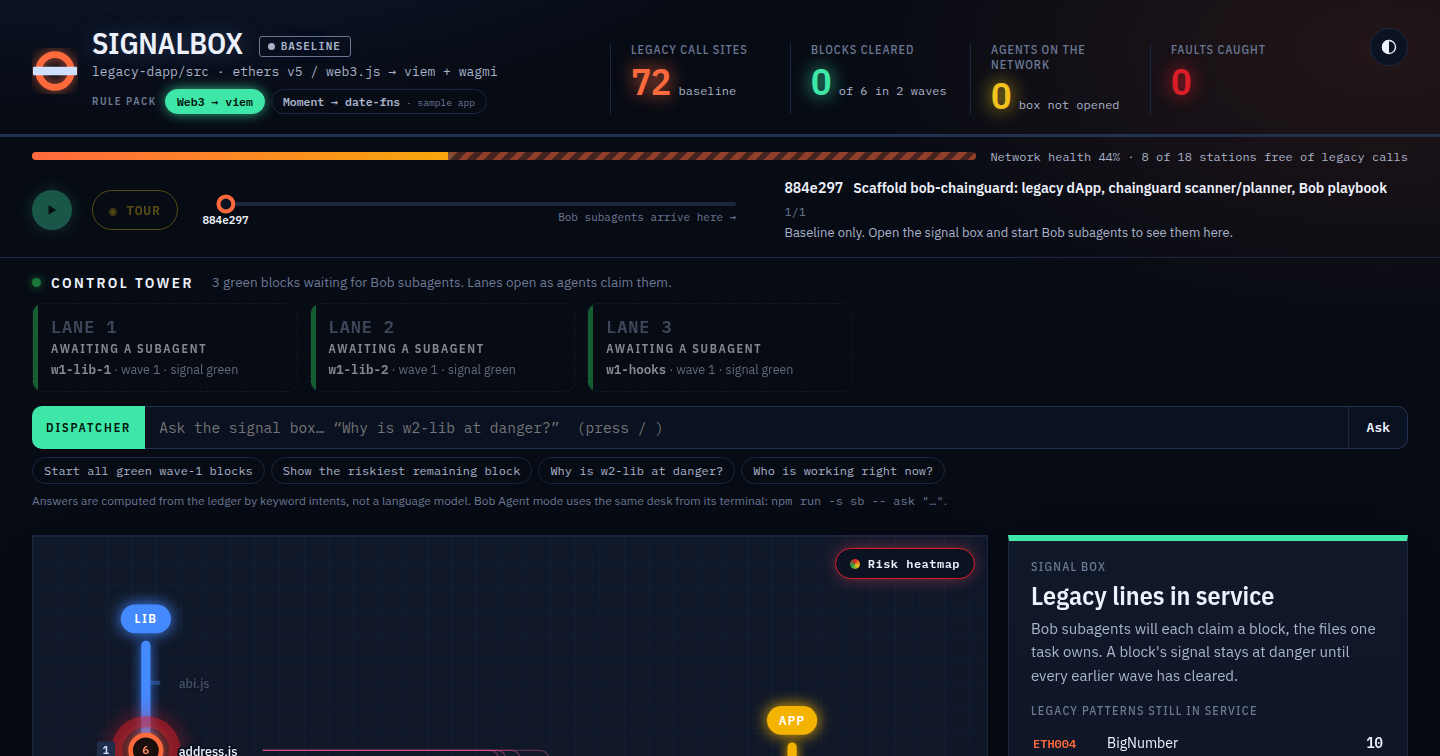
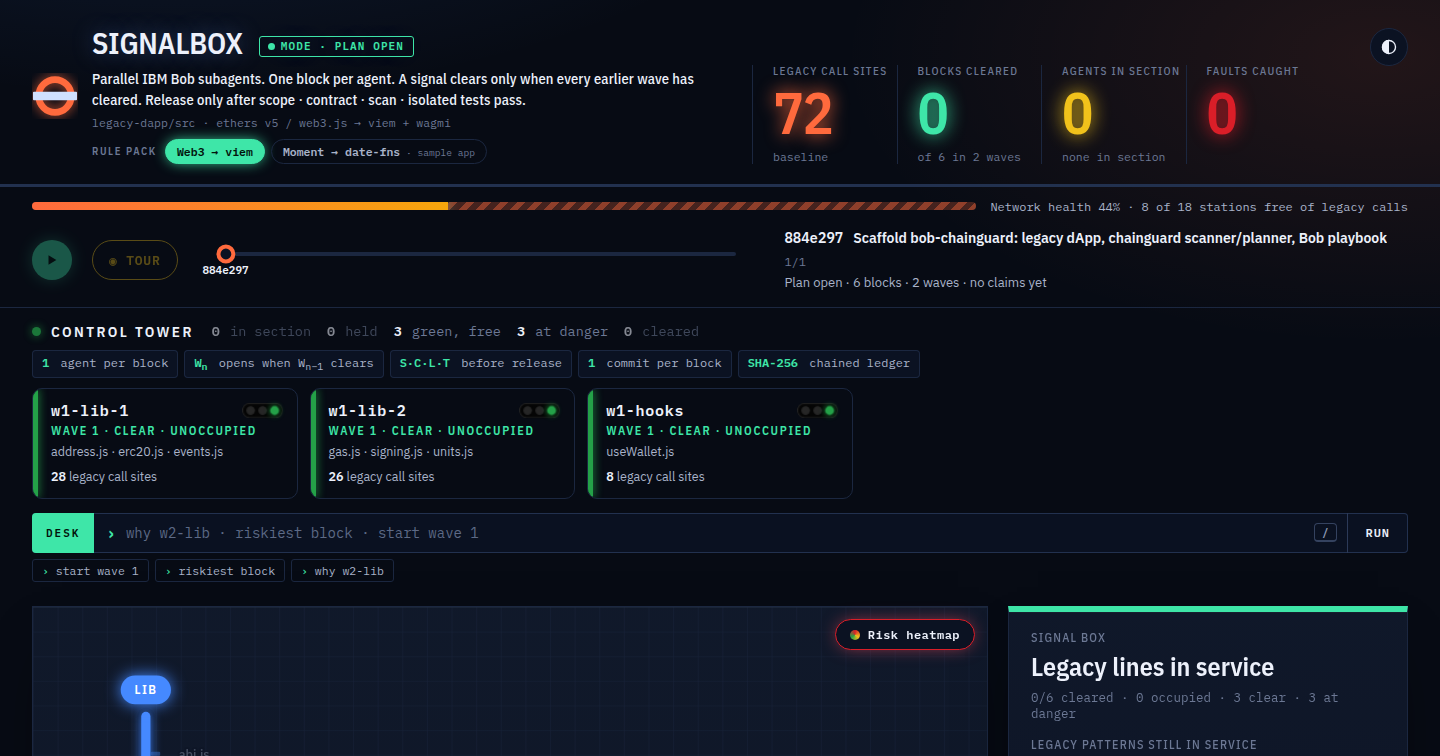
First-impression pass on the panel
- Masthead: one hard sentence stating the interlocking; mode reads
  'Mode · Plan open / Live / Replay'; stat numbers are the loudest thing
- Control tower: terse counts, a one-line rules strip, and empty tracks
  shown as real free sections (files, call sites) instead of placeholders
- Desk: an operator console (prompt, / key, Run) with three sharp
  commands; the disclaimer moved to a tooltip
- Side panel and signal box: prose replaced by state counts and a key
- Train graph: every block row always drawn, a parallelism band with
  xN counts and the peak, taller rows and a tight legend
- Footer: 'Ledger is append-only and SHA-256 chained. Every clear is a
  real commit. Nothing is mocked.'

Claude-Session: https://claude.ai/code/session_01BpaNfmVPrYku2iviHeT8ef

diff --git a/atlas/src/main.js b/atlas/src/main.js
@@ -265,7 +265,7 @@ function buildStats() {
   $('#stats').replaceChildren(
     cell('calls', 'Legacy call sites'),
     cell('blocks', 'Blocks cleared'),
-    cell('agents', 'Agents on the network'),
+    cell('agents', 'Agents in section'),
     cell('faults', 'Faults caught'),
   )
 }
@@ -279,7 +279,7 @@ function updateStats() {
   tween('blocks', $('#stat-blocks'), sum.cleared)
   $('#stat-blocks-sub').textContent = `of ${sum.total} in ${view.sb.waves} waves`
   tween('agents', $('#stat-agents'), sum.agents.length)
-  $('#stat-agents-sub').textContent = sum.agents.join(' · ') || (view.opened ? 'none' : 'box not opened')
+  $('#stat-agents-sub').textContent = sum.agents.join(' · ') || 'none in section'
   tween('faults', $('#stat-faults'), view.faults)
   $('#stat-faults-sub').textContent = view.faults ? 'stopped before commit' : ''
   document.body.dataset.done = String(calls === 0)
@@ -291,7 +291,7 @@ function updateStats() {
   $('#health').setAttribute('aria-valuenow', String(pct))
   const badge = $('#mode')
   badge.dataset.mode = model.mode
-  badge.textContent = model.mode === 'live' ? (view.atHead ? 'Live' : 'Live · paused') : model.mode === 'replay' ? 'Replay' : 'Baseline'
+  badge.textContent = `Mode · ${model.mode === 'live' ? (view.atHead ? 'Live' : 'Live · paused') : model.mode === 'replay' ? 'Replay' : 'Plan open'}`
 }
 
 // ------------------------------------------------------------------ signal box panel (board)
@@ -339,7 +339,7 @@ function updateBoard() {
 function updateDescriber() {
   const list = $('#describer')
   if (!view.opened) {
-    list.replaceChildren(h('li', { class: 'td-empty' }, 'The signal box has not been opened yet. Run ', h('code', {}, 'npm run sb -- init'), ', then give each Bob subagent its block prompt.'))
+    list.replaceChildren(h('li', { class: 'td-empty' }, 'No events. ', h('code', {}, 'sb init'), ' opens the box; every claim, fault and clear lands here.'))
     return
   }
   const upto = view.stops[view.i].event
@@ -382,9 +382,10 @@ function updateTower() {
   const sum = summary(view.sb)
   const green = Object.values(view.sb.tasks).filter((t) => t.state === 'clear')
   const held = lanes.filter((l) => l.status === 'held').length
-  $('#tower-sub').textContent = lanes.length
-    ? `${sum.agents.length} Bob subagent${sum.agents.length === 1 ? '' : 's'} in section · ${held} held at a signal · ${green.length} green block${green.length === 1 ? '' : 's'} waiting`
-    : `${green.length} green block${green.length === 1 ? '' : 's'} waiting for Bob subagents. Lanes open as agents claim them.`
+  const busy = lanes.filter((l) => l.task).length
+  $('#tower-sub').replaceChildren(...[
+    ['in section', busy], ['held', held], ['green, free', green.length], ['at danger', sum.danger], ['cleared', sum.cleared],
+  ].map(([k, v]) => h('span', { class: `tc${v ? '' : ' zero'}` }, h('b', {}, String(v)), ` ${k}`)))
   const cards = lanes.map((l) => {
     const t = l.task && view.sb.tasks[l.task]
     return h('li', { class: `lane l-${l.status}${l.fresh ? ' fresh' : ''}`, style: `--c:${agentColor(l.agent)}`, tabindex: 0,
@@ -401,10 +402,18 @@ function updateTower() {
       l.heldFor ? h('p', { class: 'lane-held' }, h('b', {}, `Refused ${l.heldFor}: `), l.reason.replace(/^signal at danger: /, '')) : h('p', { class: 'lane-last' }, h('time', {}, l.last.at.slice(11, 19)), ' ', describe(l.last)),
       h('p', { class: 'lane-stats' }, h('b', {}, String(l.clears)), ' cleared · ', h('b', { class: l.faults ? 'f' : '' }, String(l.faults)), ' faults · ', h('b', { class: l.denies ? 'd' : '' }, String(l.denies)), ' refused'))
   })
-  const ghosts = lanes.length ? [] : green.slice(0, 4).map((t, k) => h('li', { class: 'lane l-ghost' },
-    h('div', { class: 'lane-top' }, h('span', { class: 'lane-name' }, `LANE ${k + 1}`)),
-    h('p', { class: 'lane-status' }, 'Awaiting a subagent'),
-    h('p', { class: 'lane-block' }, h('b', {}, t.id), ` · wave ${t.wave} · signal green`)))
+  // No agent yet: the tracks are still real. Each green block is a free section with its files
+  // and call count; the rules strip states the interlocking in one line.
+  const ghosts = lanes.length ? [] : green.map((t) => h('li', { class: 'lane l-ghost', tabindex: 0,
+    onclick: () => select(taskFiles(t.id)[0]),
+    onmouseenter: () => { model.focusTask = t.id; updateMap() },
+    onmouseleave: () => { model.focusTask = null; updateMap() },
+  },
+    h('div', { class: 'lane-top' }, h('span', { class: 'lane-name' }, t.id), h('span', { class: 'signal-head s-clear' }, h('i', { class: 'lamp red' }), h('i', { class: 'lamp amber' }), h('i', { class: 'lamp green' }))),
+    h('p', { class: 'lane-status' }, `Wave ${t.wave} · clear · unoccupied`),
+    h('p', { class: 'lane-block' }, taskFiles(t.id).map((f) => f.split('/').pop()).join(' · ')),
+    h('p', { class: 'lane-stats' }, h('b', {}, String(t.findings || 0)), ' legacy call sites')))
+  $('#tower-rules').hidden = lanes.length > 0
   $('#lanes').replaceChildren(...cards, ...ghosts)
   document.body.classList.toggle('held-now', view.event?.t === 'deny')
 }
@@ -487,15 +496,18 @@ function askDesk(question) {
   }
 }
 
+const DESK_CHIPS = ['start wave 1', 'riskiest block', 'why w2-lib']
+
 function buildDesk() {
   $('#ask').replaceChildren(
     h('form', { class: 'ask-form', onsubmit: (e) => { e.preventDefault(); askDesk() } },
-      h('label', { for: 'ask-input', class: 'ask-label' }, 'Dispatcher'),
-      h('input', { id: 'ask-input', type: 'text', autocomplete: 'off', placeholder: 'Ask the signal box… “Why is w2-lib at danger?”  (press / )' }),
-      h('button', { type: 'submit', class: 'ask-go' }, 'Ask')),
-    h('div', { class: 'ask-examples' }, EXAMPLES.slice(0, 4).map((x) => h('button', { type: 'button', class: 'ask-chip', onclick: () => askDesk(x) }, x))),
-    h('div', { class: 'ask-answer', id: 'ask-answer', hidden: true, 'aria-live': 'polite' }),
-    h('p', { class: 'ask-note' }, 'Answers are computed from the ledger by keyword intents, not a language model. Bob Agent mode uses the same desk from its terminal: ', h('code', {}, 'npm run -s sb -- ask "…"'), '.'))
+      h('label', { for: 'ask-input', class: 'ask-label', title: 'Deterministic: keyword intents over the ledger, no language model. Bob uses the same desk: sb ask "…" or the signalbox_ask MCP tool.' }, 'Desk'),
+      h('span', { class: 'ask-prompt', 'aria-hidden': 'true' }, '›'),
+      h('input', { id: 'ask-input', type: 'text', autocomplete: 'off', spellcheck: 'false', placeholder: 'why w2-lib · riskiest block · start wave 1' }),
+      h('kbd', { class: 'ask-kbd', title: 'Press / to focus' }, '/'),
+      h('button', { type: 'submit', class: 'ask-go' }, 'Run')),
+    h('div', { class: 'ask-examples' }, DESK_CHIPS.map((x) => h('button', { type: 'button', class: 'ask-chip', onclick: () => askDesk(x) }, x))),
+    h('div', { class: 'ask-answer', id: 'ask-answer', hidden: true, 'aria-live': 'polite' }))
 }
 
 // ------------------------------------------------------------------ train graph
@@ -505,8 +517,34 @@ const AGENT_COLORS = ['#ffb000', '#33b1ff', '#ff7eb6', '#42be65', '#08bdba', '#d
 function updateGraph() {
   const el = $('#graph')
   const full = timeline(model.events)
+  const W = Math.max(640, el.clientWidth || 900)
+  const left = 160
+  const right = 24
+  const rowH = 38
+  const band = 34 // parallelism band
+  const tasks = [...(full ? full.tasks : Object.values(view.sb.tasks).map((t) => ({ id: t.id, wave: t.wave })))].sort((a, b) => a.wave - b.wave || a.id.localeCompare(b.id))
+  const top = band + 22
+  const H = top + tasks.length * rowH + 30
+  const rowY = Object.fromEntries(tasks.map((t, i) => [t.id, top + i * rowH]))
+  const g = s('svg', { viewBox: `0 0 ${W} ${H}`, width: W, height: H, class: 'graph', role: 'img' })
+  const rows = () => {
+    let lastWave = null
+    for (const t of tasks) {
+      const y = rowY[t.id]
+      g.append(s('rect', { x: left, y: y + 3, width: W - left - right, height: rowH - 6, rx: 3, class: 'g-lane' }))
+      if (t.wave !== lastWave) {
+        g.append(s('line', { x1: 8, x2: W - right, y1: y - 1, y2: y - 1, class: 'g-wave' }))
+        lastWave = t.wave
+      }
+      g.append(s('text', { x: 12, y: y + rowH / 2 + 4, class: 'g-row' }, s('tspan', { class: 'g-w' }, `W${t.wave} `), t.id))
+    }
+    g.append(s('text', { x: 12, y: band / 2 + 8, class: 'g-row g-par-label' }, 'PARALLEL'))
+  }
   if (!full) {
-    el.replaceChildren(h('p', { class: 'graph-empty' }, 'Bars appear here as Bob subagents claim blocks.'))
+    rows()
+    g.setAttribute('aria-label', 'Train graph: no block has been occupied yet')
+    g.append(s('text', { x: left + 12, y: band / 2 + 8, class: 'g-axis' }, 'no occupations yet · bars start at the first claim'))
+    el.replaceChildren(g)
     return
   }
   const upto = view.stops[view.i].event
@@ -514,52 +552,50 @@ function updateGraph() {
   const now = Date.parse(model.events[upto].at)
   const agents = [...new Set(full.runs.map((r) => r.agent))]
   const color = agentColor
-  const tasks = [...full.tasks].sort((a, b) => a.wave - b.wave || a.id.localeCompare(b.id))
-  const W = Math.max(640, el.clientWidth || 900)
-  const left = 150
-  const right = 24
-  const rowH = 30
-  const top = 26
-  const H = top + tasks.length * rowH + 30
   const span = Math.max(1, full.t1 - full.t0)
   const x = (t) => left + ((t - full.t0) / span) * (W - left - right)
-  const rowY = Object.fromEntries(tasks.map((t, i) => [t.id, top + i * rowH]))
-
-  const g = s('svg', { viewBox: `0 0 ${W} ${H}`, width: W, height: H, class: 'graph', role: 'img', 'aria-label': `Train graph: ${tl.runs.length} block occupations by ${agents.length} agents` })
-  // time axis: minute marks
+  g.setAttribute('aria-label', `Train graph: ${tl.runs.length} block occupations by ${agents.length} agents`)
+  rows()
   const stepMs = [10e3, 30e3, 60e3, 120e3, 300e3, 600e3, 900e3, 1800e3, 3600e3].find((m) => span / m <= 8) || 7200e3
   for (let t = 0; t <= span; t += stepMs) {
     const xx = x(full.t0 + t)
-    g.append(s('line', { x1: xx, x2: xx, y1: top - 6, y2: H - 24, class: 'g-grid' }),
+    g.append(s('line', { x1: xx, x2: xx, y1: band + 4, y2: H - 24, class: 'g-grid' }),
       s('text', { x: xx, y: H - 8, class: 'g-axis', 'text-anchor': 'middle' }, t >= 60e3 ? `+${Math.round(t / 60e3)}m` : `+${Math.round(t / 1e3)}s`))
   }
-  let lastWave = null
-  for (const t of tasks) {
-    const y = rowY[t.id]
-    if (t.wave !== lastWave) {
-      g.append(s('line', { x1: 8, x2: W - right, y1: y - 3, y2: y - 3, class: 'g-wave' }))
-      lastWave = t.wave
-    }
-    g.append(s('text', { x: 12, y: y + rowH / 2 + 1, class: 'g-row' }, `W${t.wave}  ${t.id}`))
+  // Parallelism band: how many agents occupy blocks at each moment. Height and colour = count.
+  const edges = tl.runs.flatMap((r) => [[r.start, 1], [r.end ?? now, -1]]).sort((a, b) => a[0] - b[0] || a[1] - b[1])
+  let cur = 0
+  let peak = 0
+  for (let k = 0; k < edges.length; k++) {
+    cur += edges[k][1]
+    const next = edges[k + 1]?.[0]
+    if (next == null || cur <= 0 || next <= edges[k][0]) continue
+    peak = Math.max(peak, cur)
+    const hh = Math.min(band - 6, 6 + (cur - 1) * 8)
+    const x0 = x(edges[k][0])
+    const w = Math.max(1, x(next) - x0)
+    g.append(s('rect', { x: x0, y: band - hh, width: w, height: hh, class: `g-par p${Math.min(cur, 4)}` }, s('title', {}, `${cur} agent${cur > 1 ? 's' : ''} in parallel`)))
+    if (cur > 1 && w > 26) g.append(s('text', { x: x0 + w / 2, y: band - hh - 4, class: 'g-par-n', 'text-anchor': 'middle' }, `×${cur}`))
   }
+  if (peak > 1) g.append(s('text', { x: W - right, y: 12, class: 'g-peak', 'text-anchor': 'end' }, `peak ×${peak}`))
   for (const r of tl.runs) {
-    const y = rowY[r.task] + 7
+    const y = rowY[r.task] + 8
     const end = r.end ?? now
-    const bar = s('g', { class: `g-run o-${r.outcome}` },
-      s('rect', { x: x(r.start), y, width: Math.max(3, x(end) - x(r.start)), height: rowH - 14, rx: 3, fill: color(r.agent), style: `color:${color(r.agent)}` }),
-      x(end) - x(r.start) > 44 ? s('text', { x: x(r.start) + 6, y: y + 12, class: 'g-agent' }, r.agent.toUpperCase()) : null,
-      r.verifies.map((v) => s('rect', { x: x(v.at) - 2, y: y - 4, width: 4, height: rowH - 6, rx: 1, class: v.ok ? 'g-ok' : 'g-fault' }, s('title', {}, v.ok ? 'track circuit clear' : `fault: ${v.failed.join(', ')}`))),
-      r.outcome === 'cleared' ? s('circle', { cx: x(end), cy: y + (rowH - 14) / 2, r: 5, class: 'g-clear' }) : null,
-      r.outcome === 'rolled-back' ? s('path', { d: `M${x(end) - 4},${y}l8,${rowH - 14}M${x(end) + 4},${y}l-8,${rowH - 14}`, class: 'g-rollback' }) : null,
-      s('title', {}, `${r.agent} in ${r.task}: ${r.outcome}`))
-    g.append(bar)
+    const hgt = rowH - 16
+    g.append(s('g', { class: `g-run o-${r.outcome}` },
+      s('rect', { x: x(r.start), y, width: Math.max(3, x(end) - x(r.start)), height: hgt, rx: 3, fill: color(r.agent), style: `color:${color(r.agent)}` }),
+      x(end) - x(r.start) > 44 ? s('text', { x: x(r.start) + 6, y: y + hgt / 2 + 4, class: 'g-agent' }, r.agent.toUpperCase()) : null,
+      r.verifies.map((v) => s('rect', { x: x(v.at) - 2, y: y - 4, width: 4, height: hgt + 8, rx: 1, class: v.ok ? 'g-ok' : 'g-fault' }, s('title', {}, v.ok ? 'track circuit clear' : `fault: ${v.failed.join(', ')}`))),
+      r.outcome === 'cleared' ? s('circle', { cx: x(end), cy: y + hgt / 2, r: 5, class: 'g-clear' }) : null,
+      r.outcome === 'rolled-back' ? s('path', { d: `M${x(end) - 4},${y}l8,${hgt}M${x(end) + 4},${y}l-8,${hgt}`, class: 'g-rollback' }) : null,
+      s('title', {}, `${r.agent} in ${r.task}: ${r.outcome}`)))
   }
   for (const e of model.events.slice(0, upto + 1).filter((e) => e.t === 'deny' && rowY[e.task] != null)) {
     const xx = x(Date.parse(e.at))
     const y = rowY[e.task] + rowH / 2
-    g.append(s('path', { d: `M${xx},${y - 6}l6,6l-6,6l-6,-6z`, class: 'g-deny' }, s('title', {}, `${e.agent} held at signal`)))
+    g.append(s('path', { d: `M${xx},${y - 7}l7,7l-7,7l-7,-7z`, class: 'g-deny' }, s('title', {}, `${e.agent} held at signal`)))
   }
-  g.append(s('line', { x1: x(now), x2: x(now), y1: top - 10, y2: H - 22, class: 'g-now' }))
+  g.append(s('line', { x1: x(now), x2: x(now), y1: 4, y2: H - 22, class: 'g-now' }))
   el.replaceChildren(g, h('ul', { class: 'g-legend' }, agents.map((a) => h('li', {}, h('i', { style: `background:${color(a)}` }), a))))
 }
 
@@ -630,7 +666,7 @@ function buildTimeline() {
     play,
     tour,
     h('div', { class: `track${n === 1 ? ' pending' : ''}` }, h('div', { class: 'track-fill', id: 'track-fill' }), ticks,
-      n === 1 ? h('span', { class: 'track-note' }, 'Bob subagents arrive here →') : null),
+    ),
     h('div', { class: 'commit', id: 'commit' }),
   )
 }
@@ -649,7 +685,7 @@ function updateTimeline() {
     ? [h('span', { class: 'subject' }, describe(model.events[stop.event])), h('span', { class: 'when' }, `${when} UTC · ${view.i + 1}/${n}`)]
     : [h('span', { class: 'mono' }, stop.label), ' ', h('span', { class: 'subject' }, stop.title), h('span', { class: 'when' }, `${view.i + 1}/${n}`)]
   if (model.mode === 'live' && !view.atHead) parts.push(h('button', { class: 'follow', onclick: () => { model.follow = true; goTo(n - 1) } }, 'Back to live'))
-  if (!view.opened && n === 1) parts.push(h('span', { class: 'hint' }, 'Baseline only. Open the signal box and start Bob subagents to see them here.'))
+  if (!view.opened && n === 1) parts.push(h('span', { class: 'hint' }, `Plan open · ${Object.keys(view.sb.tasks).length} blocks · ${view.sb.waves} waves · no claims yet`))
   $('#commit').replaceChildren(...parts)
 }
 
@@ -879,9 +915,7 @@ function overviewPanel() {
   return [
     h('p', { class: 'eyebrow' }, 'Signal box'),
     h('h2', {}, calls === 0 ? 'All blocks cleared' : sum.agents.length ? `${sum.agents.length} agent${sum.agents.length > 1 ? 's' : ''} on the network` : 'Legacy lines in service'),
-    h('p', { class: 'lede' }, view.opened
-      ? `${sum.cleared} of ${sum.total} blocks cleared. Every block is released only after its scope, exported contract, legacy scan and tests pass on an isolated copy of the code, and is then committed on its own.`
-      : 'Bob subagents will each claim a block, the files one task owns. A block\'s signal stays at danger until every earlier wave has cleared.'),
+    h('p', { class: 'lede mono' }, `${sum.cleared}/${sum.total} cleared · ${sum.occupied + sum.fault} occupied · ${sum.clear} clear · ${sum.danger} at danger`),
     crewSection(),
     ranked.length ? h('p', { class: 'eyebrow' }, 'Legacy patterns still in service') : null,
     h('ul', { class: 'rules' }, ranked.map(([id, n]) => {

diff --git a/atlas/src/styles.css b/atlas/src/styles.css
@@ -988,3 +988,79 @@ body.chaos::after {
 .pack:hover { color: var(--ink); border-color: var(--focus); }
 .pack.on { color: var(--on-steel); background: var(--steel); border-color: var(--steel); box-shadow: 0 0 14px -2px var(--steel); }
 .pack.on small { color: inherit; opacity: 0.75; }
+
+/* ============================================================ first-impression pass */
+/* The numbers are the loudest thing on the page; everything else is secondary. */
+.num, #stat-split { font-size: 58px; letter-spacing: -0.03em; }
+.stat dt { font-size: 11px; letter-spacing: 0.12em; }
+.stat dd { margin-top: 6px; }
+.stat .sub { font-size: 11.5px; color: var(--ink-3); }
+@media (max-width: 640px) { .num { font-size: 40px; } }
+
+.claim {
+  margin: 10px 0 0; max-width: 620px;
+  font: 500 14.5px/1.45 var(--f-sign); letter-spacing: 0.01em; color: var(--ink);
+}
+.route { margin-top: 6px; font-size: 11.5px; color: var(--ink-3); }
+.mode { letter-spacing: 0.1em; }
+.mode[data-mode='baseline'] { color: var(--steel); border-color: var(--steel); }
+
+/* control tower */
+.tower-counts { display: flex; flex-wrap: wrap; gap: 4px 16px; font: 12px var(--f-mono); color: var(--ink-3) !important; }
+.tower-counts .tc b { color: var(--ink); font-weight: 600; margin-right: 2px; }
+.tower-counts .tc.zero { opacity: 0.55; }
+.rules-strip { list-style: none; margin: 0 0 10px; padding: 0; display: flex; flex-wrap: wrap; gap: 6px; }
+.rules-strip[hidden] { display: none; }
+.rules-strip li { font: 12px var(--f-mono); color: var(--ink-2); padding: 5px 10px; border-radius: 4px; box-shadow: inset 0 0 0 1px var(--rule); background: var(--card); }
+.rules-strip b { color: var(--steel); font-weight: 600; margin-right: 4px; }
+.lane.l-ghost { opacity: 1; cursor: pointer; border-style: solid; }
+.lane.l-ghost .lane-name { color: var(--ink); font-size: 15px; }
+.lane.l-ghost .lane-status { color: var(--steel) !important; }
+.lane.l-ghost::before { background: var(--sig-green); box-shadow: 0 0 10px var(--sig-green); }
+
+/* dispatcher desk: an operator console, not a chat box */
+.ask { gap: 6px; }
+.ask-form { border-radius: 4px; background: var(--board); box-shadow: inset 0 0 0 1px #2c3a58; }
+.ask-label { font: 600 11px var(--f-mono); letter-spacing: 0.18em; padding: 0 14px; cursor: help; }
+.ask-prompt { display: flex; align-items: center; padding-left: 12px; font: 600 16px var(--f-mono); color: var(--steel); }
+.ask-form input { color: #e8edf8; font-size: 14px; padding: 11px 10px; }
+.ask-form input::placeholder { color: #5d6a86; }
+.ask-kbd { align-self: center; margin-right: 10px; font: 600 11px var(--f-mono); color: #8d99b5; border: 1px solid #34425f; border-bottom-width: 2px; border-radius: 4px; padding: 1px 7px; }
+.ask-go { color: #e8edf8; border-left-color: #2c3a58; font-size: 12px; letter-spacing: 0.08em; text-transform: uppercase; }
+.ask-go:hover { color: var(--steel); }
+.ask-chip { border-radius: 3px; font-size: 11.5px; padding: 3px 9px; }
+.ask-chip::before { content: '› '; color: var(--steel); }
+.ask-answer { border-radius: 4px; }
+
+/* side panel: technical, not prose */
+.lede.mono { font: 12.5px var(--f-mono); color: var(--ink-3); margin-bottom: 10px; }
+
+/* signal box and train graph keys */
+.board-top .key { display: flex; flex-wrap: wrap; gap: 4px 14px; font: 12px var(--f-mono); color: #9a978f; margin: 0; padding: 0; list-style: none; }
+.board-top .key b { color: #6fdc8c; margin-right: 3px; }
+.g-key li { display: flex; align-items: center; gap: 6px; }
+.g-key i { display: inline-block; width: 16px; height: 9px; border-radius: 2px; }
+.g-key .k-bar { background: #33b1ff; }
+.g-key .k-par { background: linear-gradient(0deg, #3ee6a8 0 40%, rgba(62, 230, 168, 0.25) 40%); height: 12px; }
+.g-key .k-ok { width: 4px; height: 13px; background: #42be65; }
+.g-key .k-fault { width: 4px; height: 13px; background: #fa4d56; }
+.g-key .k-deny { width: 9px; height: 9px; border: 1.5px solid #d6a800; transform: rotate(45deg); border-radius: 0; }
+.g-key .k-clear { width: 10px; height: 10px; border-radius: 50%; background: #42be65; }
+.g-lane { fill: rgba(255, 255, 255, 0.018); }
+.g-w { fill: #6fdc8c; }
+.g-par { fill: #3ee6a8; }
+.g-par.p1 { opacity: 0.28; }
+.g-par.p2 { opacity: 0.6; }
+.g-par.p3, .g-par.p4 { opacity: 0.95; filter: drop-shadow(0 0 6px #3ee6a8); }
+.g-par-n { font: 600 11px var(--f-mono); fill: #3ee6a8; }
+.g-par-label { font-size: 10.5px; letter-spacing: 0.14em; fill: #6fdc8c; }
+.g-peak { font: 600 12px var(--f-mono); fill: #3ee6a8; }
+.graph-card { padding: 24px 26px 20px; }
+.g-legend { margin-top: 6px; font-size: 11.5px; }
+
+/* footer: factual */
+.foot p { display: flex; flex-wrap: wrap; justify-content: space-between; gap: 6px 18px; margin: 0; }
+.foot b { color: var(--ink); font-weight: 600; }
+.foot-keys { font: 12px var(--f-mono); color: var(--ink-3); }
+.stats { width: min(100%, 780px); }
+.stat dt { white-space: nowrap; }

diff --git a/atlas/index.html b/atlas/index.html
@@ -30,7 +30,8 @@
           <rect x="1" y="19.5" width="46" height="9" rx="1" />
         </svg>
         <div>
-          <h1>Signalbox <span class="mode" id="mode" data-mode="baseline">Baseline</span></h1>
+          <h1>Signalbox <span class="mode" id="mode" data-mode="baseline">Mode · Plan open</span></h1>
+          <p class="claim">Parallel IBM Bob subagents. One block per agent. A signal clears only when every earlier wave has cleared. Release only after scope · contract · scan · isolated tests pass.</p>
           <p class="route" id="route"></p>
           <div class="packs" id="packs" role="group" aria-label="Rule pack"></div>
           <span class="ledger" id="ledger" role="status"></span>
@@ -52,9 +53,16 @@
     <section class="tower" id="tower" aria-labelledby="tower-title">
       <div class="tower-head">
         <h2 id="tower-title"><span class="tower-dot" aria-hidden="true"></span>Control tower</h2>
-        <p id="tower-sub"></p>
+        <p id="tower-sub" class="tower-counts"></p>
         <div class="tower-actions" id="tower-actions"></div>
       </div>
+      <ol class="rules-strip" id="tower-rules" aria-label="Interlocking rules">
+        <li><b>1</b> agent per block</li>
+        <li><b>W<sub>n</sub></b> opens when W<sub>n−1</sub> clears</li>
+        <li><b>S·C·L·T</b> before release</li>
+        <li><b>1</b> commit per block</li>
+        <li><b>SHA-256</b> chained ledger</li>
+      </ol>
       <ol class="lanes" id="lanes" aria-live="polite"></ol>
       <div class="ask" id="ask"></div>
     </section>
@@ -80,7 +88,7 @@
     <section class="board" id="board" aria-labelledby="board-title">
       <div class="board-top">
         <h2 id="board-title">Signal box</h2>
-        <p>One block per Bob subagent task. A block's signal clears only when every earlier wave has cleared. A block releases only when scope, contract, scan and isolated tests all pass.</p>
+        <p class="key"><b>S</b> scope <b>C</b> contract <b>L</b> legacy scan <b>T</b> isolated tests</p>
       </div>
       <div class="board-grid">
         <div class="board-rows" id="board-rows" role="table" aria-label="Blocks"></div>
@@ -94,7 +102,14 @@
     <section class="graph-card" aria-labelledby="graph-title">
       <div class="board-top">
         <h2 id="graph-title">Train graph</h2>
-        <p>Time runs left to right, one row per block. Each bar is a Bob subagent occupying a block. Bars that overlap are agents working in parallel. Marks are track circuit runs: green passed, red fault.</p>
+        <ul class="key g-key" aria-label="Legend">
+          <li><i class="k-bar"></i>agent in block</li>
+          <li><i class="k-par"></i>agents in parallel</li>
+          <li><i class="k-ok"></i>circuit clear</li>
+          <li><i class="k-fault"></i>fault</li>
+          <li><i class="k-deny"></i>claim refused</li>
+          <li><i class="k-clear"></i>committed</li>
+        </ul>
       </div>
       <div class="graph-wrap" id="graph"></div>
     </section>
@@ -104,7 +119,7 @@
     <dialog class="diff verify" id="verify" aria-label="Verify the ledger"></dialog>
 
     <footer class="foot">
-      <p>Everything here comes from the signal box ledger and real <code>chainguard</code> scans of real commits. The agents are IBM Bob subagents. Keys: ← → step through events, Esc returns to the overview. · <a href="./deck.html">Pitch deck</a></p>
+      <p><b>Ledger is append-only and SHA-256 chained. Every clear is a real commit. Nothing is mocked.</b> <span class="foot-keys">← → step · / desk · Esc overview · <a href="./deck.html">Deck</a></span></p>
     </footer>
     <script type="module" src="/src/main.js"></script>
   </body>
